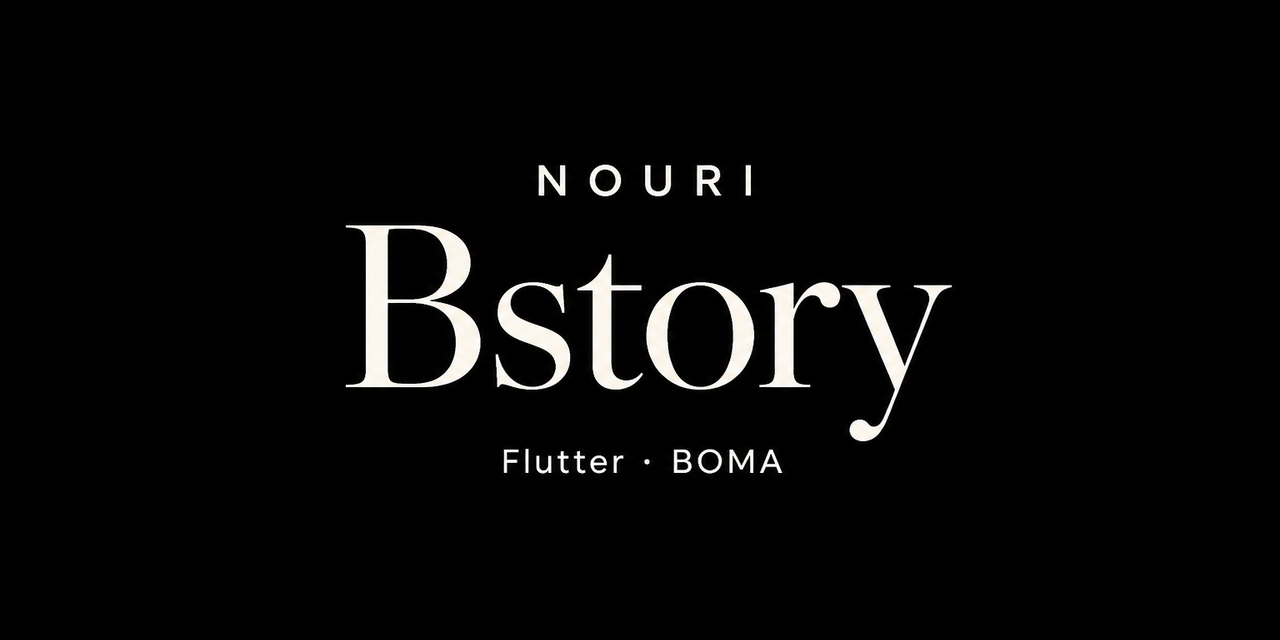
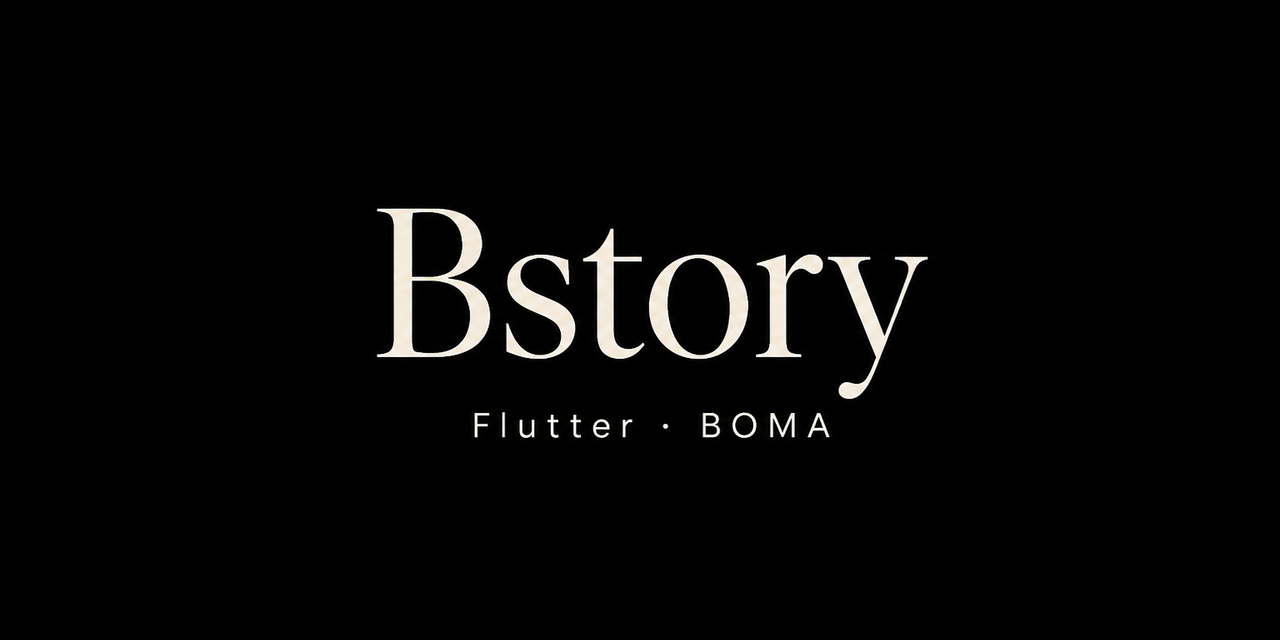
docs: product-only copy, drop client names
README and OG header name Bstory and BOMA only.

Changed region(s): [[0.2812, 0.3125, 0.75, 0.75], [0.4062, 0.25, 0.5938, 0.3125], [0.5312, 0.5938, 0.5625, 0.625]]

diff --git a/README.md b/README.md
@@ -4,11 +4,11 @@
 
 # Bstory
 
-Flutter client for styled story text. The product is **Bstory**. This repository is **BOMA**. Built for Nouri.
+Flutter app for styled story text. The product is **Bstory**. This repository is **BOMA**.
 
 Type on a canvas. Choose a font. Apply a style. Place a sticker. Export a PNG.
 
-The theme is dark. Phone OTP is wired; without `BOMA_API_BASE` the client stays offline. Premium screens exist. Features are currently unlocked.
+The theme is dark. Phone OTP is wired; without `BOMA_API_BASE` the app stays offline. Premium screens exist. Features are currently unlocked.
 
 ## Editor
 
@@ -16,7 +16,7 @@ The home canvas is the product. A four-tab toolbar — font, style, color, creat
 
 ## Companion
 
-`server/` is a small Node process for OTP, a version check, and open/ping counts. The Flutter client calls it only when `BOMA_API_BASE` is set.
+`server/` is a small Node process for OTP, a version check, and open/ping counts. The app calls it only when `BOMA_API_BASE` is set.
 
 ## Run
 
